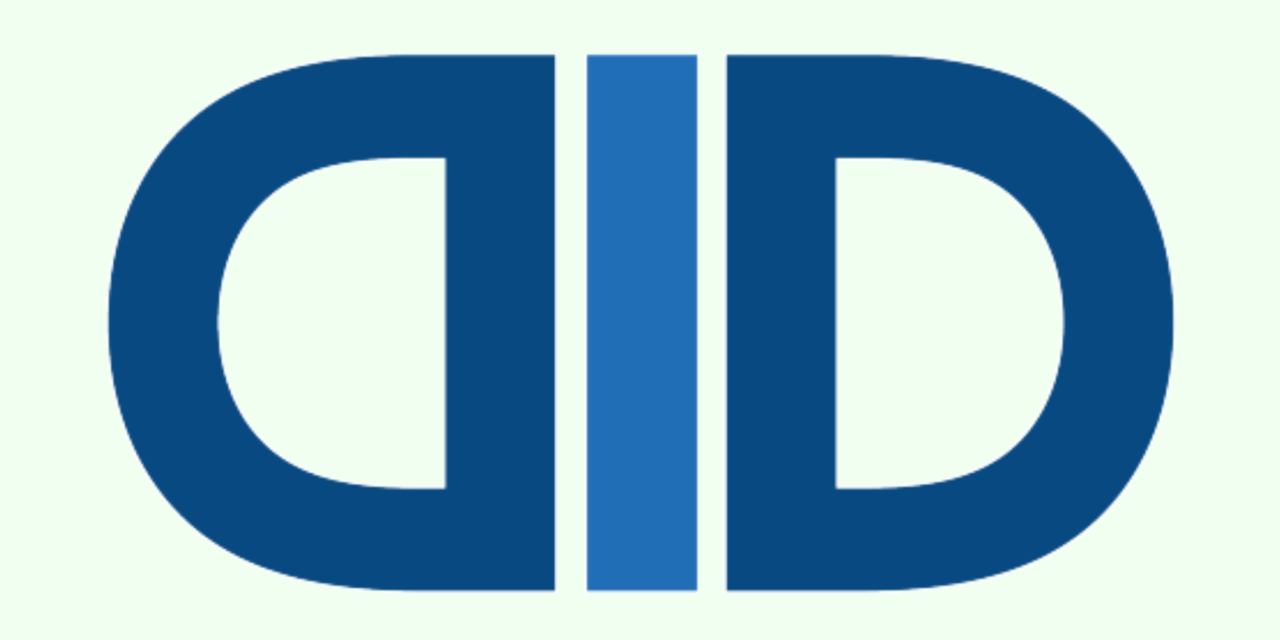
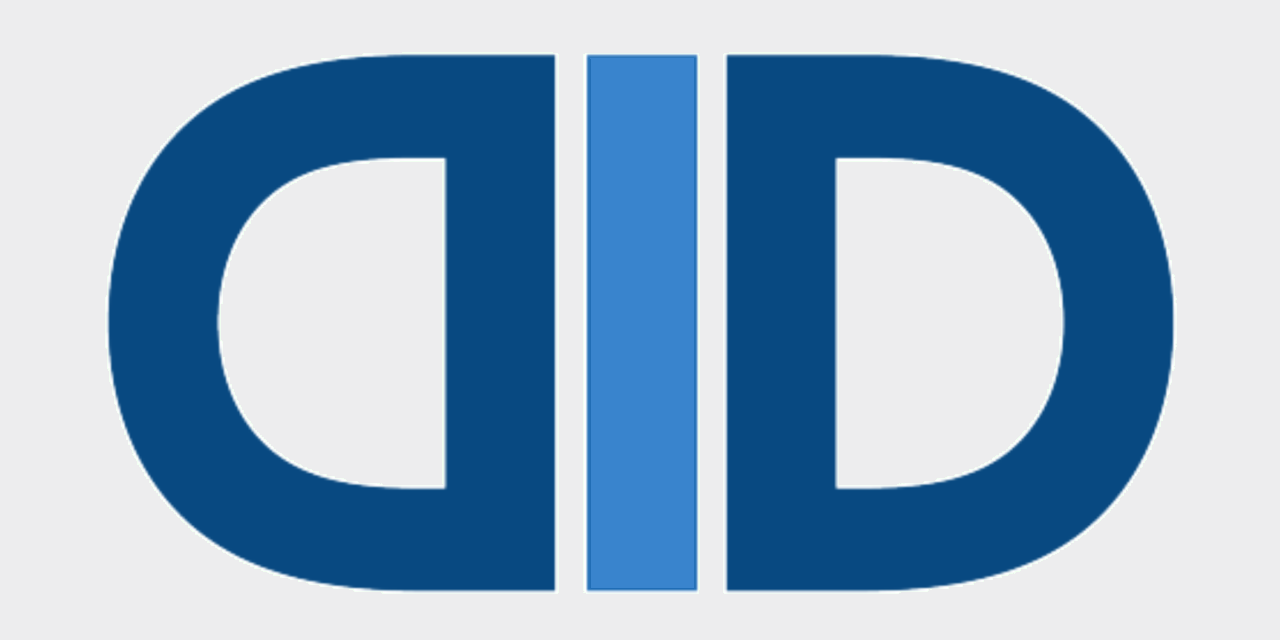
ux feedback

Changed region(s): [[0.4375, 0.0938, 0.5625, 0.9375]]

diff --git a/_includes/head/custom.html b/_includes/head/custom.html
@@ -5,10 +5,9 @@
 <link rel="icon" type="image/png" sizes="32x32" href="https://infominer.id/DIDecentralized/assets/icons/favicon-32x32.png">
 <link rel="icon" type="image/png" sizes="16x16" href="https://infominer.id/DIDecentralized/assets/icons/favicon-16x16.png">
 <link rel="manifest" href="https://infominer.id/DIDecentralized/assets/icons/site.webmanifest">
-<link rel="mask-icon" href="https://infominer.id/DIDecentralized/assets/icons/safari-pinned-tab.svg" color="#5bbad5">
+<link rel="mask-icon" href="https://infominer.id/DIDecentralized/assets/icons/safari-pinned-tab.svg" color="#eeeeef">
 <link rel="shortcut icon" href="https://infominer.id/DIDecentralized/assets/icons/favicon.ico">
-<meta name="msapplication-TileColor" content="#00aba9">
+<meta name="msapplication-TileColor" content="#eeeeef">
 <meta name="msapplication-config" content="https://infominer.id/DIDecentralized/assets/icons/browserconfig.xml">
-<meta name="theme-color" content="#ffffff">
-
+<meta name="theme-color" content="#eeeeef">
 <!-- end custom head snippets -->
